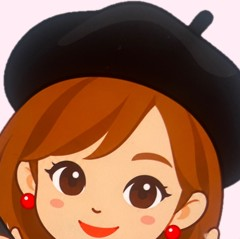
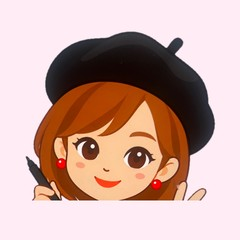
은서작가: 텍스트·이미지 스크롤 애니메이션, 히어로 순차 등장·카드 펼침, 아바타 재크롭
Claude-Session: https://claude.ai/code/session_016SxUknQaX3HwQww9UgzRrf

diff --git a/eunseo/index.html b/eunseo/index.html
@@ -109,14 +109,36 @@ body.menu-open{overflow:hidden}
 
 /* 붓으로 휘리릭 쓰는 효과 */
 .brush-write{position:relative;white-space:nowrap}
-.brush-write .ch{display:inline-block;-webkit-mask-image:linear-gradient(105deg,#000 46%,rgba(0,0,0,.35) 50%,transparent 54%);mask-image:linear-gradient(105deg,#000 46%,rgba(0,0,0,.35) 50%,transparent 54%);-webkit-mask-size:320% 100%;mask-size:320% 100%;-webkit-mask-position:0 0;mask-position:0 0;-webkit-mask-repeat:no-repeat;mask-repeat:no-repeat;animation:brushIn .42s cubic-bezier(.7,0,.25,1) calc(.75s + var(--i) * .2s) both}
+.brush-write .ch{display:inline-block;-webkit-mask-image:linear-gradient(105deg,#000 46%,rgba(0,0,0,.35) 50%,transparent 54%);mask-image:linear-gradient(105deg,#000 46%,rgba(0,0,0,.35) 50%,transparent 54%);-webkit-mask-size:320% 100%;mask-size:320% 100%;-webkit-mask-position:0 0;mask-position:0 0;-webkit-mask-repeat:no-repeat;mask-repeat:no-repeat;animation:brushIn .36s cubic-bezier(.7,0,.25,1) calc(.82s + var(--i) * .14s) both}
 @keyframes brushIn{
   0%{-webkit-mask-position:100% 0;mask-position:100% 0;filter:blur(2px);transform:translateY(2px) skewX(-6deg)}
   70%{filter:blur(.3px)}
   100%{-webkit-mask-position:0 0;mask-position:0 0;filter:blur(0);transform:none}}
 .brush-write .swoosh{position:absolute;left:-2%;bottom:-.08em;width:104%;height:.36em;overflow:visible;pointer-events:none}
-.brush-write .swoosh path{fill:none;stroke:var(--accent);stroke-width:7;stroke-linecap:round;opacity:.55;stroke-dasharray:320;stroke-dashoffset:0;animation:swoosh .5s cubic-bezier(.6,0,.2,1) 1.65s both}
+.brush-write .swoosh path{fill:none;stroke:var(--accent);stroke-width:7;stroke-linecap:round;opacity:.55;stroke-dasharray:320;stroke-dashoffset:0;animation:swoosh .45s cubic-bezier(.6,0,.2,1) 1.42s both}
 @keyframes swoosh{from{stroke-dashoffset:320;stroke-width:3}to{stroke-dashoffset:0;stroke-width:7}}
+
+
+/* 텍스트 애니메이션: 단어가 아래에서 밀려 올라옴 */
+.split .w{display:inline-block;overflow:hidden;vertical-align:bottom;padding:0 .02em .1em;margin-bottom:-.1em}
+.split .w > span{display:inline-block;transform:translateY(110%) rotate(4deg);transform-origin:0 100%}
+.split.go .w > span{animation:wordUp .9s cubic-bezier(.19,1,.22,1) calc(var(--wi) * var(--step,160ms) + var(--wd,0ms)) both}
+@keyframes wordUp{from{transform:translateY(110%) rotate(4deg)}to{transform:none}}
+@keyframes riseBlur{from{opacity:0;translate:0 24px;filter:blur(6px)}to{opacity:1;translate:0 0;filter:blur(0)}}
+.rv.txt.in{animation-name:riseBlur;animation-duration:1s}
+.hero .lead{animation:riseBlur 1s cubic-bezier(.16,.84,.3,1) 1.25s both!important}
+.eyebrow.go{animation:eyebrowIn .8s cubic-bezier(.16,.84,.3,1) both}
+@keyframes eyebrowIn{from{opacity:0;letter-spacing:.4em}to{opacity:1;letter-spacing:.06em}}
+.fact b{font-variant-numeric:tabular-nums}
+@media (prefers-reduced-motion:reduce){.split .w > span{transform:none}}
+
+
+/* 이미지 내부: 아래에서 걷히며 확대→원래 크기 */
+.rv.img .ph img,.rv.img .post-img,.rv.img.compare img{clip-path:inset(100% 0 0 0);scale:1.18}
+.rv.img.in .ph img,.rv.img.in .post-img,.rv.img.in.compare img{animation:imgWipe 1.15s cubic-bezier(.65,0,.2,1) calc(var(--d,0ms) + 80ms) both}
+@keyframes imgWipe{from{clip-path:inset(100% 0 0 0);scale:1.18}to{clip-path:inset(0 0 0 0);scale:1}}
+.rv.cta-pop.in{animation:pop .9s cubic-bezier(.34,1.56,.64,1) var(--d,0ms) both}
+@keyframes pop{from{opacity:0;scale:.6;rotate:-8deg}to{opacity:1;scale:1;rotate:0deg}}
 
 /* mobile tab bar */
 .tabbar{display:none}
@@ -160,9 +182,13 @@ body.menu-open{overflow:hidden}
 
 .fan{position:relative;height:clamp(440px,48vw,600px)}
 .fan .post{position:absolute;width:58%;transition:transform .5s cubic-bezier(.2,.8,.2,1)}
-.fan .p1{left:0;top:12%;transform:rotate(-8deg);animation:bob 7s ease-in-out infinite}
-.fan .p2{left:21%;top:0;z-index:2;animation:bob 7s ease-in-out -2.3s infinite}
-.fan .p3{right:0;top:16%;transform:rotate(8deg);animation:bob 7s ease-in-out -4.6s infinite}
+.fan .p1{left:0;top:12%;transform:rotate(-8deg);animation:spreadL 1s cubic-bezier(.34,1.45,.5,1) .95s backwards,bob 7s ease-in-out 2s infinite}
+.fan .p2{left:21%;top:0;z-index:2;animation:spreadC 1s cubic-bezier(.34,1.45,.5,1) .95s backwards,bob 7s ease-in-out 2.4s infinite}
+.fan .p3{right:0;top:16%;transform:rotate(8deg);animation:spreadR 1s cubic-bezier(.34,1.45,.5,1) .95s backwards,bob 7s ease-in-out 2.8s infinite}
+/* 처음엔 가운데로 모여 있다가 좌우로 펼쳐짐 */
+@keyframes spreadL{from{transform:translate(36%,-9%) rotate(0deg) scale(.96)}}
+@keyframes spreadR{from{transform:translate(-36%,-12%) rotate(0deg) scale(.96)}}
+@keyframes spreadC{0%{transform:translateY(8px) scale(.97)}45%{transform:translateY(-6px) scale(1.02)}100%{transform:none}}
 .fan:hover .p1{transform:rotate(-12deg) translateX(-12px)}
 .fan:hover .p3{transform:rotate(12deg) translateX(12px)}
 @keyframes bob{50%{translate:0 -10px}}
@@ -364,12 +390,11 @@ footer .wrap{display:flex;flex-wrap:wrap;justify-content:space-between;gap:12px}
 .rv.pre{opacity:0}
 .rv.in{animation:rise 1s cubic-bezier(.16,.84,.3,1) var(--d,0ms) both}
 .rv.img.in{animation-name:riseImg;animation-duration:1.15s}
-.hero .wrap > div:first-child > *{animation:rise 1s cubic-bezier(.16,.84,.3,1) both}
-.hero .wrap > div:first-child > :nth-child(2){animation-delay:.08s}
-.hero .wrap > div:first-child > :nth-child(3){animation-delay:.16s}
-.hero .wrap > div:first-child > :nth-child(4){animation-delay:.24s}
-.hero .wrap > div:first-child > :nth-child(5){animation-delay:.32s}
-.fan{animation:riseImg 1.2s cubic-bezier(.16,.84,.3,1) .2s both}
+.hero .wrap > div:first-child > *:not(h1){animation:rise 1s cubic-bezier(.16,.84,.3,1) both}
+.hero .wrap > div:first-child > :nth-child(1){animation-delay:.05s}
+.hero .wrap > div:first-child > :nth-child(4){animation-delay:1.45s}
+.hero .wrap > div:first-child > :nth-child(5){animation-delay:1.65s}
+.fan{animation:riseImg .9s cubic-bezier(.16,.84,.3,1) .15s both}
 @media (prefers-reduced-motion:reduce){*,*::before,*::after{animation:none!important;transition:none!important}.rv.pre{opacity:1}}
 </style>
 </head>
@@ -413,7 +438,7 @@ footer .wrap{display:flex;flex-wrap:wrap;justify-content:space-between;gap:12px}
       <div>
         <span class="eyebrow"><i data-lucide="sparkles"></i>은서작가 · 수채 파스텔 캐리커처 & 캘리그라피</span>
         <h1>마주 앉은 15분,<br>평생 꺼내 볼<br><em class="brush-write" aria-label="우리 얼굴"><span class="ch" style="--i:0">우</span><span class="ch" style="--i:1">리</span> <span class="ch" style="--i:2">얼</span><span class="ch" style="--i:3">굴</span><svg class="swoosh" viewBox="0 0 300 40" preserveAspectRatio="none" aria-hidden="true"><path d="M6 28 C 70 18, 150 14, 210 20 S 285 30, 294 14"/></svg></em></h1>
-        <p class="lead">붓펜 선 위에 파스텔을 문질러 올리는 손그림이에요. 그 자리에서 완성하고, 하고 싶은 말은 캘리그라피로 하트 안에 적어 드려요.</p>
+        <p class="lead">붓펜 선 위에 파스텔을 문질러 올리는 손그림이에요. 그 자리에서 완성하고,<br>하고 싶은 말은 캘리그라피로 하트 안에 적어 드려요.</p>
         <div class="hero-cta">
           <a href="#contact" class="btn btn-green"><i data-lucide="calendar-heart"></i>그림 예약하기</a>
           <a href="#works" class="btn btn-ghost"><i data-lucide="grid-3x3"></i>작품 피드 보기</a>
@@ -450,14 +475,10 @@ footer .wrap{display:flex;flex-wrap:wrap;justify-content:space-between;gap:12px}
   <!-- GALLERY -->
   <section id="works">
     <div class="wrap">
-      <div class="sec-head">
-        <div>
-          <span class="eyebrow"><i data-lucide="palette"></i>작품</span>
-          <h2>누구와 함께 그릴까요</h2>
-        </div>
-        <p class="lead" style="margin:0;max-width:24em">최근 두 달 동안 현장에서 그린 그림이에요. 눌러서 크게 볼 수 있어요.</p>
-      </div>
-      <div class="chips" role="group" aria-label="작품 분류">
+      <span class="eyebrow"><i data-lucide="palette"></i>작품</span>
+      <h2>누구와 함께 그릴까요</h2>
+      <p class="lead">최근 두 달 동안 현장에서 그린 그림이에요. 눌러서 크게 볼 수 있어요.</p>
+      <div class="chips" role="group" style="margin-top:28px" aria-label="작품 분류">
         <button class="chip" aria-pressed="true" data-f="all">전체</button>
         <button class="chip" aria-pressed="false" data-f="couple">커플</button>
         <button class="chip" aria-pressed="false" data-f="family">가족·부모님</button>
@@ -809,23 +830,54 @@ addEventListener('scroll',()=>{
   tabs.forEach((a,i)=>a.classList.toggle('on',i===on));
 },{passive:true});
 
+
+/* 제목 단어 분할 애니메이션 */
+(function(){
+  if(matchMedia('(prefers-reduced-motion: reduce)').matches) return;
+  function split(el){
+    let i=0;
+    [...el.childNodes].forEach(n=>{
+      if(n.nodeType!==3) return;
+      const part=n.textContent.trim(); if(!part) return;
+      const w=document.createElement('span');w.className='w';
+      const inner=document.createElement('span');inner.textContent=part;inner.style.setProperty('--wi',i++);
+      w.appendChild(inner);n.replaceWith(w);
+    });
+    el.classList.add('split');
+  }
+  const hero=document.querySelector('.hero h1');
+  if(hero){split(hero);hero.style.setProperty('--wd','250ms');hero.style.setProperty('--step','260ms');requestAnimationFrame(()=>hero.classList.add('go'));}
+  const heads=[...document.querySelectorAll('section:not(.hero) h2')];
+  if(!('IntersectionObserver' in window)) return;
+  heads.forEach(split);
+  const io=new IntersectionObserver(es=>es.forEach(en=>{if(en.isIntersecting){en.target.classList.add('go');io.unobserve(en.target);}}),{rootMargin:'0px 0px -12% 0px'});
+  heads.forEach(h=>io.observe(h));
+  /* 숫자 카운트업 */
+  document.querySelectorAll('.fact b').forEach(b=>{
+    const m=b.textContent.match(/^(\d+)(.*)$/); if(!m) return;
+    const end=+m[1],rest=m[2],t0=performance.now()+1650,dur=900;
+    b.textContent='0'+rest;
+    (function tick(now){const p=Math.min(1,Math.max(0,(now-t0)/dur));b.textContent=Math.round(end*(1-Math.pow(1-p,3)))+rest;if(p<1)requestAnimationFrame(tick);})(performance.now());
+  });
+})();
+
 /* scroll reveal */
 (function(){
   if(!('IntersectionObserver' in window) || matchMedia('(prefers-reduced-motion: reduce)').matches) return;
-  const imgSel='.card, .feed .post, .compare, .slot';
-  const txtSel='.copt, section:not(.hero) .eyebrow, section:not(.hero) h2, section:not(.hero) .lead, .chips, .steps li, .q, .mascot-row, .plan, .ev, .rate > div, .faq details, .cta';
+  const imgSel='.card, .feed .post, .compare, .slot, .cta-char';
+  const txtSel='.copt, .note, .ev .ic, .contact .row, section:not(.hero) .eyebrow, section:not(.hero) .lead, .chips, .steps li, .q, .mascot-row, .plan, .ev, .rate > div, .faq details, .cta';
   const els=[...document.querySelectorAll(imgSel+', '+txtSel)];
   const io=new IntersectionObserver(es=>es.forEach(en=>{
     if(!en.isIntersecting) return;
     const el=en.target; el.classList.remove('pre'); el.classList.add('in'); io.unobserve(el);
-    el.addEventListener('animationend',()=>{el.classList.remove('rv','img','in');el.style.removeProperty('--d');},{once:true});
+    el.addEventListener('animationend',e=>{if(e.target!==el)return;el.classList.remove('rv','img','txt','cta-pop','in');el.style.removeProperty('--d');},{once:true});
   }),{rootMargin:'0px 0px -10% 0px',threshold:.08});
   els.forEach(el=>{
     if(el.getBoundingClientRect().top < innerHeight*.92) return;
     const sib=[...el.parentElement.children].filter(c=>c.matches(imgSel+', '+txtSel));
     const k=sib.indexOf(el);
     el.style.setProperty('--d',((k<0?0:k)%4)*110+'ms');
-    el.classList.add('rv','pre'); if(el.matches(imgSel)) el.classList.add('img');
+    el.classList.add('rv','pre'); if(el.matches('.cta-char')) el.classList.add('cta-pop'); else if(el.matches(imgSel)) el.classList.add('img'); else if(el.matches('.lead, .eyebrow, .q, .steps li, .copt')) el.classList.add('txt');
     io.observe(el);
   });
   /* 분류를 바꾸면 새로 보이는 카드도 다시 올라오게 */
